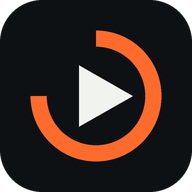
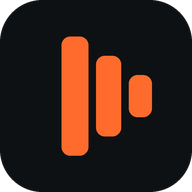
Icona nuova (tre dischi a scalare che formano il play) e più spazio sopra «Quattro modi di usarlo.»

Changed region(s): [[0.1562, 0.1562, 0.8438, 0.8438]]

diff --git a/index.html b/index.html
@@ -213,7 +213,7 @@
 
 <div class="top">
   <div class="wrap top-row">
-    <span class="brand"><svg class="brand-mark" viewBox="0 0 100 100" aria-hidden="true" focusable="false"><rect width="100" height="100" rx="22" fill="#0E1113"/><path d="M50 20.25A29.75 29.75 0 1 1 20.25 50" fill="none" stroke="#FF6B2C" stroke-width="8.5"/><path d="M41.2 34V66L69.2 50Z" fill="#F0F3EE"/></svg>WorkoutPlayer</span>
+    <span class="brand"><svg class="brand-mark" viewBox="0 0 100 100" aria-hidden="true" focusable="false"><rect width="100" height="100" rx="22" fill="#0E1113"/><g fill="#FF6B2C"><rect x="32" y="19" width="14" height="62" rx="4.5"/><rect x="50" y="29" width="13" height="42" rx="4.5"/><rect x="67" y="39" width="12" height="22" rx="4.5"/></g></svg>WorkoutPlayer</span>
     <div class="top-right">
       <span class="eyebrow" data-i18n="topEyebrow"></span>
       <nav class="langs" id="langNav">
@@ -346,7 +346,7 @@
   </div>
 </div>
 
-<section id="pubblici" style="padding-block:0 56px">
+<section id="pubblici" style="padding-block:72px 56px">
   <div class="wrap">
     <div class="aud-head">
       <span class="eyebrow" data-i18n="audEyebrow"></span>
